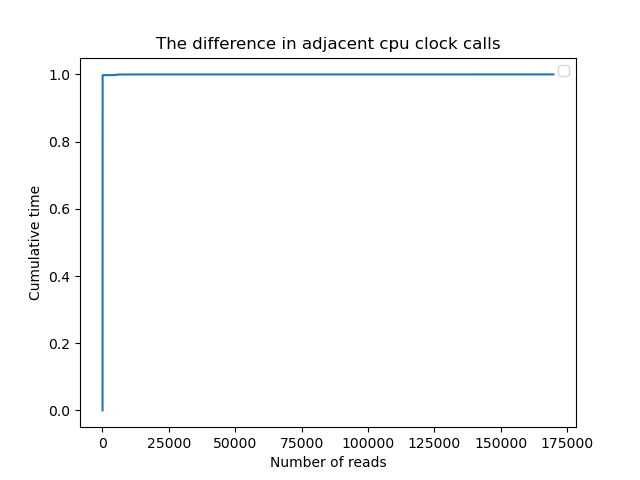
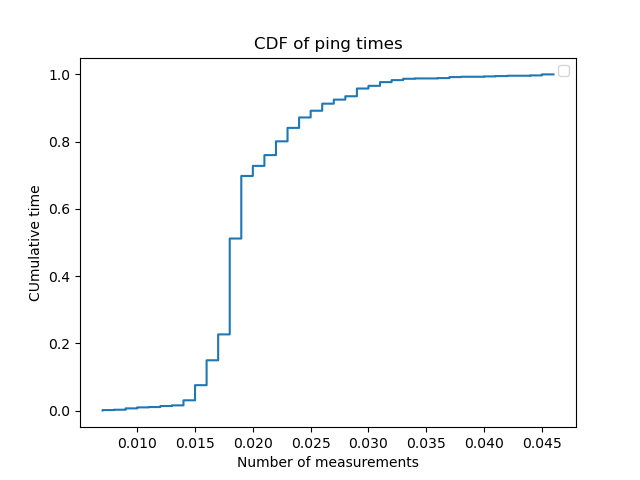
Assignment 2 finish up functionality

diff --git a/assignment2/rdtime.c b/assignment2/rdtime.c
@@ -3,6 +3,7 @@
 #include <stdlib.h>
 #include <string.h>
 #include <x86intrin.h>
+#include <time.h>
 
 /*
  * Read the CPU Time Stamp Counter (TSC).
@@ -14,9 +15,9 @@
  *     Current TSC value in CPU cycles.
  */
 static inline uint64_t read_tsc(void) {
-    _mm_lfence();
+   // _mm_lfence();
     uint64_t t = __rdtsc();
-    _mm_lfence();
+    //_mm_lfence();
     return t;
 }
 
@@ -152,6 +153,11 @@ uint64_t min_consecutive_diff(size_t num, const char *filename) {
      */
     for (size_t i = 0; i < num; i++) {
         timestamps[i] = read_tsc();
+	
+	//clock_t start_time = clock();
+	
+	//while (clock() < start_time + 10);
+
     }
 
     /*